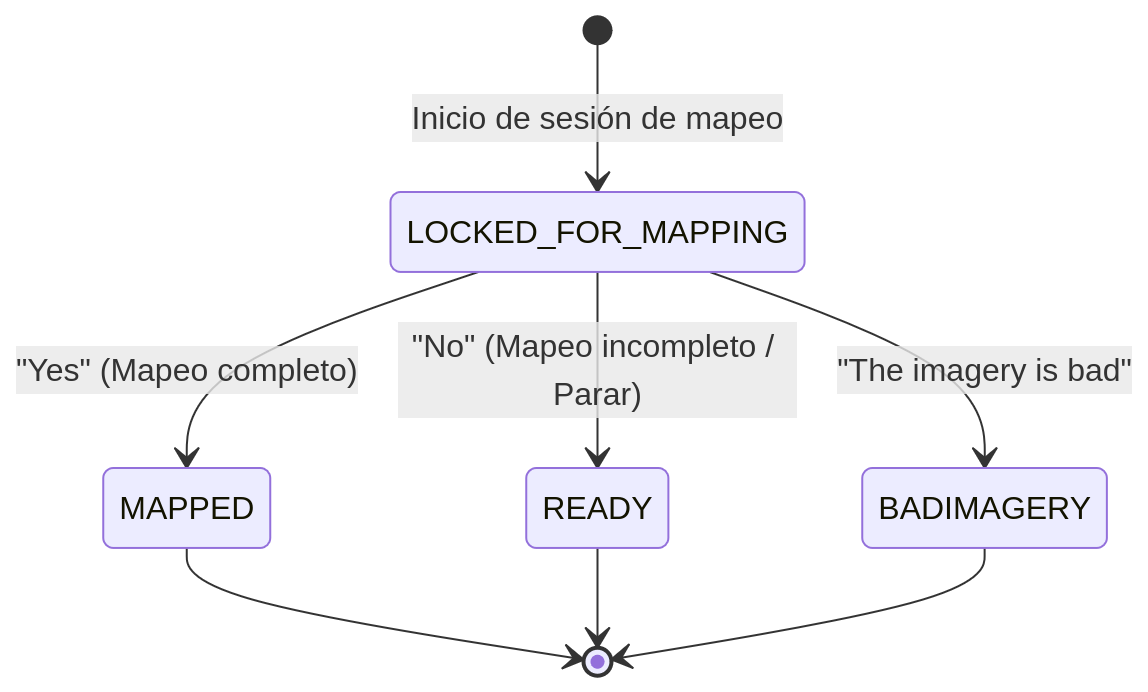
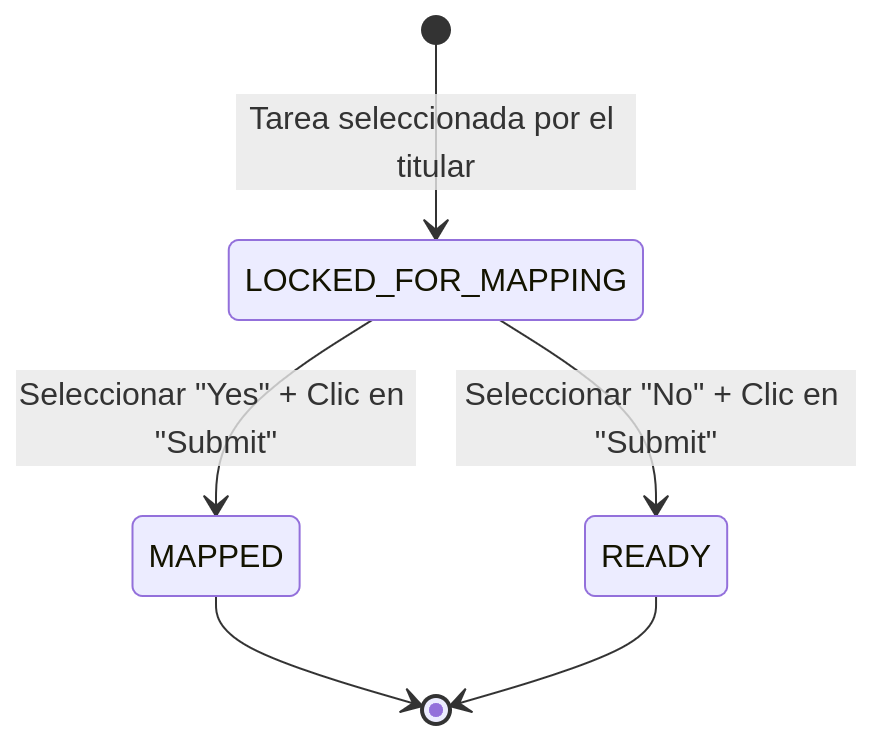
test: agregar ejecucion de pruebas funcionales ESC-3002

diff --git a/tests-docs/02-diseno-de-pruebas/funcionales/03-ejecucion-de-mapeo.md b/tests-docs/02-diseno-de-pruebas/funcionales/03-ejecucion-de-mapeo.md
@@ -110,49 +110,45 @@ Una vez superadas las validaciones de bloqueo, el sistema procesa el lanzamiento
 
 | Atributo | Detalle |
 | :--- | :--- |
-| **Descripción** | Validar que el sistema procesa correctamente la finalización de una sesión de mapeo por parte de un usuario `MAPPER`, actualizando el estado de la tarea según el progreso reportado y liberando el bloqueo exclusivo para habilitar las siguientes fases del proyecto. |
+| **Descripción** | Validar que la interfaz gráfica permite a un usuario `MAPPER` finalizar su sesión de mapeo sobre una tarea que posee bloqueada, reportando el progreso mediante las opciones visibles en el panel de control y liberando el bloqueo exclusivo. Asimismo, validar que la interfaz restringe visualmente estas opciones cuando la tarea no cumple las condiciones para ser liberada. |
 | **RF Asociados** | RF-3004 |
-| **Precondiciones** | Proyecto en estado `PUBLISHED`. Tarea en estado `LOCKED_FOR_MAPPING` asignada al usuario `MAPPER` (ACT-0002) actualmente autenticado. |
-| **Técnicas aplicadas**| Transición de Estados (State Transition Testing), Partición de Equivalencia (EP). |
-| **Resultado Esperado** | La tarea actualiza su estado topográfico en la base de datos (`MAPPED`, `READY` o `BADIMAGERY`), registra el evento en el historial de la tarea y elimina la asociación de bloqueo temporal con el usuario. Las transiciones no permitidas o realizadas por usuarios sin propiedad del bloqueo son rechazadas. |
+| **Precondiciones** | Proyecto en estado `PUBLISHED`. Usuario `MAPPER` (ACT-0002) autenticado en el sistema. |
+| **Técnicas aplicadas**| Transición de Estados (State Transition Testing), Partición de Equivalencia (PE). |
+| **Resultado Esperado** | La interfaz muestra los controles de finalización ("Yes", "No") únicamente cuando el usuario posee el bloqueo de la tarea. Al confirmar, la tarea actualiza su color/estado topográfico en el mapa (`MAPPED` o `READY`). Para tareas ajenas o sin bloqueo, los controles de envío se ocultan. |
 
 **B. Aplicación de Técnicas (Análisis)**
 
 **B.1. Transición de Estados**
-Dado que el ciclo de vida de la tarea es estricto y secuencial, se modelan los estados del sistema y los eventos (acciones de la interfaz) que provocan las transiciones válidas e inválidas desde el estado de bloqueo de mapeo.
+Se modelan exclusivamente los estados visuales del mapa y los controles de la interfaz que provocan las transiciones disponibles para el usuario al momento de liberar la tarea.
 
 ![Diagrama de transición ESC-3002](/tests-docs/02-diseno-de-pruebas/funcionales/img/transicion-estado-ESC-3002.png) 
 
-**Tabla de Transición de Estados**
+**Tabla de Transición de Estados (Observable en UI)**
 
-| Estado Inicial | Acción (Evento en Interfaz) | Estado Final Esperado | Transición | Observación |
-| :--- | :--- | :--- | :---: | :--- |
-| `LOCKED_FOR_MAPPING` | Seleccionar "Yes" (Submit) | `MAPPED` | Válida | El mapeo finalizó correctamente. |
-| `LOCKED_FOR_MAPPING` | Seleccionar "No" / "Stop Mapping" | `READY` | Válida | Tarea liberada para otro Mapper. |
-| `LOCKED_FOR_MAPPING` | Seleccionar "Bad Imagery" | `BADIMAGERY` | Válida | Nubes o calidad insuficiente. |
-| `LOCKED_FOR_MAPPING` | Forzar estado `VALIDATED` | - | Inválida | Un Mapper no puede autovalidar. Arroja `InvalidUnlockState`. |
-| `READY` | Seleccionar "Yes" (Submit) | - | Inválida | No se puede hacer submit de una tarea no bloqueada. Arroja `LockBeforeUnlocking`. |
+| Estado Inicial UI | Acción en Interfaz | Estado Final Esperado (UI) | Transición |
+| :--- | :--- | :--- | :---: |
+| Tarea `LOCKED_FOR_MAPPING` (Titular) | Seleccionar "Yes" (Mapeo completo) y "Submit" | Tarea cambia a color de `MAPPED`. Panel vuelve a estado inactivo. | Válida |
+| Tarea `LOCKED_FOR_MAPPING` (Titular) | Seleccionar "No" (Mapeo incompleto) y "Submit" | Tarea cambia a color de `READY` (blanco/transparente). | Válida |
 
-**B.2. Partición de Equivalencia**
-Se aplica esta técnica para asegurar que el sistema valide la propiedad del bloqueo de la tarea, garantizando que un usuario malicioso o una sesión expirada no pueda alterar el estado de una tarea ajena.
+**B.2. Partición de Equivalencia (PE)**
+La interfaz de usuario debe reaccionar y adaptarse (mostrando u ocultando el panel de "Submit") basándose en el estado previo de la tarea seleccionada y en quién ostenta la propiedad del bloqueo.
 
-| Cod. | Campo | Clase Válida | Clases No Válidas |
+| Cod. | Variable Analizada en UI | Clase Válida (Muestra panel de Submit) | Clases No Válidas (Oculta panel de Submit) |
 | :--- | :--- | :--- | :--- |
-| MOD03-PE-002 | Titular del Bloqueo (`lockHolder`) | Usuario autenticado coincide con el titular del bloqueo de la tarea. | Usuario autenticado difiere del titular de la tarea.<br>Usuario no autenticado (Anónimo). |
+| **MOD03-PE-002** | Estado de la tarea y titularidad del bloqueo visual | Tarea seleccionada está `LOCKED_FOR_MAPPING` y el usuario actual es el titular. | 1. Tarea en estado `READY` (Libre).<br>2. Tarea en `LOCKED_FOR_MAPPING` por otro usuario (Aparece "Locked by [User]").<br>3. Tarea ya finalizada (`MAPPED`, `VALIDATED`). |
 
-*   *Comportamiento esperado (Clase Válida):* El sistema procesa la transición de estado.
-*   *Comportamiento esperado (Clases No Válidas):* Se rechaza la solicitud. Para diferencia de titulares se emite error `TaskNotOwned`. Para anónimos se emite error de autenticación.
+*   *Comportamiento esperado (Clase Válida):* El panel lateral renderiza la pregunta "¿Está la tarea completamente mapeada?" con las opciones de envío.
+*   *Comportamiento esperado (Clases No Válidas):* La interfaz actúa como barrera preventiva. No renderiza los radio buttons ni el botón de "Submit Task". En su lugar, muestra botones acordes al estado (ej. "Map a task" o solo información).
 
 **C. Casos de Prueba Derivados**
 
-| ID Caso | Datos de entrada o escenario | Resultado Esperado | Técnicas / Etiquetas Aplicadas |
-| :--- | :--- | :--- | :--- |
-| **CP-3002-01** | Tarea: `LOCKED_FOR_MAPPING`.<br>Usuario: Titular del bloqueo.<br>Acción: Seleccionar "Yes" y enviar. | La tarea cambia de estado a `MAPPED`. Se remueve el bloqueo. | Transición de Estados (Válida)<br>PE (Clase Válida) |
-| **CP-3002-02** | Tarea: `LOCKED_FOR_MAPPING`.<br>Usuario: Titular del bloqueo.<br>Acción: Seleccionar "No" y enviar. | La tarea cambia de estado a `READY`. Se remueve el bloqueo. | Transición de Estados (Válida)<br>PE (Clase Válida) |
-| **CP-3002-03** | Tarea: `LOCKED_FOR_MAPPING`.<br>Usuario: Titular del bloqueo.<br>Acción: Seleccionar "The imagery is bad" y enviar. | La tarea cambia de estado a `BADIMAGERY`. Se remueve el bloqueo. | Transición de Estados (Válida)<br>PE (Clase Válida) |
-| **CP-3002-04** | Tarea: `LOCKED_FOR_MAPPING`.<br>Usuario: Titular del bloqueo.<br>Acción: Manipular solicitud intentando enviar estado `VALIDATED`. | Transición rechazada. Se mantiene el estado `LOCKED_FOR_MAPPING`. Mensaje de error: `InvalidUnlockState`. | Transición de Estados (Inválida) |
-| **CP-3002-05** | Tarea: `READY` (Sin bloqueo previo).<br>Usuario: `MAPPER` autenticado.<br>Acción: Enviar estado `MAPPED`. | Transición rechazada. Mensaje de error: `LockBeforeUnlocking`. | Transición de Estados (Inválida) |
-| **CP-3002-06** | Tarea: `LOCKED_FOR_MAPPING`.<br>Usuario: Diferente al titular del bloqueo (`MAPPER` secundario).<br>Acción: Enviar estado `MAPPED`. | Transición rechazada. Se mantiene el bloqueo original. Mensaje de error: `TaskNotOwned`. | PE (Clase No Válida) |
+| ID Caso | Pasos de Ejecución | Datos de Entrada / Contexto | Resultado Esperado | Técnicas / Etiquetas Aplicadas |
+| :--- | :--- | :--- | :--- | :--- |
+| **CP-3002-01** | 1. Seleccionar tarea bloqueada propia.<br>2. Marcar "Yes".<br>3. Clic en "Submit Task". | **Estado:** `LOCKED_FOR_MAPPING` (Propia) | El panel de mapeo se cierra. La tarea se pinta con el color correspondiente a `MAPPED`. El bloqueo visual desaparece. | Transición de Estados (Válida)<br>PE (Clase Válida) |
+| **CP-3002-02** | 1. Seleccionar tarea bloqueada propia.<br>2. Marcar "No".<br>3. Clic en "Submit Task". | **Estado:** `LOCKED_FOR_MAPPING` (Propia) | El panel de mapeo se cierra. La tarea se pinta con el color correspondiente a `READY`. Queda disponible en el mapa. | Transición de Estados (Válida)<br>PE (Clase Válida) |
+| **CP-3002-03** | 1. Hacer clic sobre una tarea libre en el mapa de exploración. | **Estado:** `READY` | El panel lateral muestra información de la tarea y el botón "Map Task". **No se muestran** las opciones de "Submit", previniendo un envío sin bloqueo. | PE (Clase No Válida) |
+| **CP-3002-04** | 1. Hacer clic sobre una tarea bloqueada por un tercero (candado rojo). | **Estado:** `LOCKED_FOR_MAPPING` (Ajena) | El panel lateral indica "Locked by [Usuario]". **No se muestran** las opciones de "Submit" ni de edición, protegiendo la autoría del mapeo. | PE (Clase No Válida) |
+| **CP-3002-05** | 1. Hacer clic sobre una tarea que ya ha sido mapeada por el usuario. | **Estado:** `MAPPED` | El panel lateral refleja que la tarea espera validación. **No se muestran** los controles de "Submit" de mapeo. | PE (Clase No Válida) |
 
 ### 3.3. Escenario: [ESC-3003] - División de Tarea de Mapeo (Split Task)
 

diff --git a/tests-docs/03-ejecucion-de-pruebas/funcionales/03-ejecucion-de-mapeo.md b/tests-docs/03-ejecucion-de-pruebas/funcionales/03-ejecucion-de-mapeo.md
@@ -112,3 +112,85 @@
 | Evidencia |
 | :-- |
 | Selección de Editor web por Defecto<br><a href="#--------"><img src="/tests-docs/03-ejecucion-de-pruebas/funcionales/img/MOD-03-ejecucion-mapeado/CP-3001-07-fallback-editor.png" width="800px" alt="CP-3001-07 - Inicialización de iD como fallback"></a><br>Selección del entorno web por defecto tras omitir explícitamente la selección de editor en la configuración. |
+
+## 2. ESC-3002 Liberación y Envío de Tarea de Mapeo (Submit)
+
+### 2.1. Ejecución de CP-3002-01
+
+| ID | Descripción | Tipo | Estado | Defectos |
+| :-- | :-- | :-- | :-- | :-- |
+| **CP-3002-01** | Validar que el titular del bloqueo de una tarea (`LOCKED_FOR_MAPPING`) puede finalizar el mapeo seleccionando la opción "Yes" (Mapeo completo). | Manual | Exitoso | Ninguno |
+
+| Resultado esperado | Resultado obtenido |
+| :-- | :-- |
+| El sistema cambia el estado topográfico de la tarea a `MAPPED`, elimina la asociación temporal (`lockHolder`) con el usuario y añade la acción al historial de la tarea. | La solicitud se procesó correctamente (`HTTP 200`). La interfaz actualizó el color de la tarea en el mapa, y en la pestaña "History" se reflejó el evento `STATE_CHANGE: MAPPED` bajo el nombre del usuario. |
+
+| Evidencia |
+| :-- |
+| Confirmación de estado Mapped<br><a href="#--------"><img src="/tests-docs/03-ejecucion-de-pruebas/funcionales/img/MOD-03-ejecucion-mapeado/CP-3002-01-tarea-mapped.png" width="800px" alt="CP-3002-01 - Interfaz mostrando estado Mapped y botón Submit"></a><br>Captura del panel lateral durante la selección de la opción "Yes" para finalizar la tarea. |
+| Actualización del historial de la tarea<br><a href="#--------"><img src="/tests-docs/03-ejecucion-de-pruebas/funcionales/img/MOD-03-ejecucion-mapeado/CP-3002-01-historial.png" width="800px" alt="CP-3002-01 - Registro de la acción en TaskHistory"></a><br>Vista del historial comprobando la transición de estado registrada en la base de datos. |
+
+---
+
+### 2.2. Ejecución de CP-3002-02
+
+| ID | Descripción | Tipo | Estado | Defectos |
+| :-- | :-- | :-- | :-- | :-- |
+| **CP-3002-02** | Validar que el titular de la tarea puede liberar (abortar o pausar) el mapeo seleccionando la opción "No" (Mapeo incompleto). | Manual | Exitoso | Ninguno |
+
+| Resultado esperado | Resultado obtenido |
+| :-- | :-- |
+| La tarea revierte su estado a `READY`, permitiendo que quede disponible nuevamente en el *pool* del proyecto para ser tomada por otro usuario. Se remueve el bloqueo. | Tras seleccionar "No", la interfaz retornó el color de la tarea a su estado original (transparente/blanco). La API de consulta de tareas la listó nuevamente con estado `READY` sin asignación de titular. |
+
+| Evidencia |
+| :-- |
+| Liberación de tarea a estado Ready<br><a href="#--------"><img src="/tests-docs/03-ejecucion-de-pruebas/funcionales/img/MOD-03-ejecucion-mapeado/CP-3002-02-tarea-ready.png" width="800px" alt="CP-3002-02 - Selección de la opción No"></a><br>Luego de seleccionar NO, la tarea queda disponible para ser mapeada por cualquier colaborador |
+
+---
+
+### 2.3. Ejecución de CP-3002-03
+
+| ID | Descripción | Tipo | Estado | Defectos |
+| :-- | :-- | :-- | :-- | :-- |
+| **CP-3002-03** | Validar la prevención de transiciones inválidas: el panel de liberación ("Submit") no debe estar visible si el usuario selecciona una tarea libre (`READY`) en el mapa. | Manual | Exitoso | Ninguno |
+
+| Resultado esperado | Resultado obtenido |
+| :-- | :-- |
+| Al seleccionar una tarea en estado `READY`, la UI expone el botón de inicio ("Map a task"), ocultando completamente el bloque de opciones (Yes/No) y el botón "Submit", evitando envíos ilegales. | Se seleccionó una tarea libre en el explorador. En la parte inferior se muestra solo el botón para iniciar mapeo. No se renderizaron controles de finalización (Submit). |
+
+| Evidencia |
+| :-- |
+| Controles de submit ocultos (Tarea Ready)<br><a href="#--------"><img src="/tests-docs/03-ejecucion-de-pruebas/funcionales/img/MOD-03-ejecucion-mapeado/CP-3002-03-no-submit-ready.png" width="800px" alt="CP-3002-03 - Interfaz sin opciones de Submit en READY"></a><br>No se expone opciones de transición de finalización, solo el boton para iniciar el mapeo |
+
+---
+
+### 2.4. Ejecución de CP-3002-04
+
+| ID | Descripción | Tipo | Estado | Defectos |
+| :-- | :-- | :-- | :-- | :-- |
+| **CP-3002-04** | Validar la protección de autoría visual: la interfaz debe ocultar el panel de liberación ("Submit") y controles de edición al seleccionar una tarea bloqueada por un tercero. | Manual | Exitoso | Ninguno |
+
+| Resultado esperado | Resultado obtenido |
+| :-- | :-- |
+| Al seleccionar una tarea con indicador de bloqueo (candado), el panel muestra "Locked by [Nombre]". No se muestran botones de edición ni el panel de preguntas de "Submit". | Se hizo clic sobre una tarea bloqueada por otro usuario. El panel renderizó la alerta "Locked for mapping by [Usuario]" y eliminó todo control de acción (botones), garantizando que no se pueda interferir con el trabajo ajeno desde la UI. |
+
+| Evidencia |
+| :-- |
+| Bloqueo visual por pertenencia ajena<br><a href="#--------"><img src="/tests-docs/03-ejecucion-de-pruebas/funcionales/img/MOD-03-ejecucion-mapeado/CP-3002-04-locked-by-other.png" width="800px" alt="CP-3002-04 - Tarea ajena bloqueada en UI"></a><br>Panel lateral notificando la titularidad del bloqueo y suprimiendo controles de mapeo o envío. |
+
+---
+
+### 2.5. Ejecución de CP-3002-05
+
+| ID | Descripción | Tipo | Estado | Defectos |
+| :-- | :-- | :-- | :-- | :-- |
+| **CP-3002-05** | Validar que el panel de liberación ("Submit") permanece oculto al inspeccionar una tarea que ya ha sido finalizada (`MAPPED`) por el usuario u otros. | Manual | Exitoso | Ninguno |
+
+| Resultado esperado | Resultado obtenido |
+| :-- | :-- |
+| El panel lateral muestra el estado actual de la tarea (Mapeada, en espera de validación). Los controles de "Submit" de la etapa de mapeo no se renderizan, respetando la secuencia del ciclo de vida. | Al seleccionar una tarea en color azul (`MAPPED`), la UI mostró el historial y los botones correspondientes a validación (si los permisos lo permiten), confirmando que las opciones de "Submit" de mapeo desaparecieron del DOM. |
+
+| Evidencia |
+| :-- |
+| Ocultamiento de controles post-mapeo<br><a href="#--------"><img src="/tests-docs/03-ejecucion-de-pruebas/funcionales/img/MOD-03-ejecucion-mapeado/CP-3002-05-mapped-task.png" width="800px" alt="CP-3002-05 - Ausencia de controles Submit en tarea Mapped"></a><br>Visualización del estado de una tarea lista para validar, evidenciando el respeto de las transiciones de estado en la interfaz. |
+
